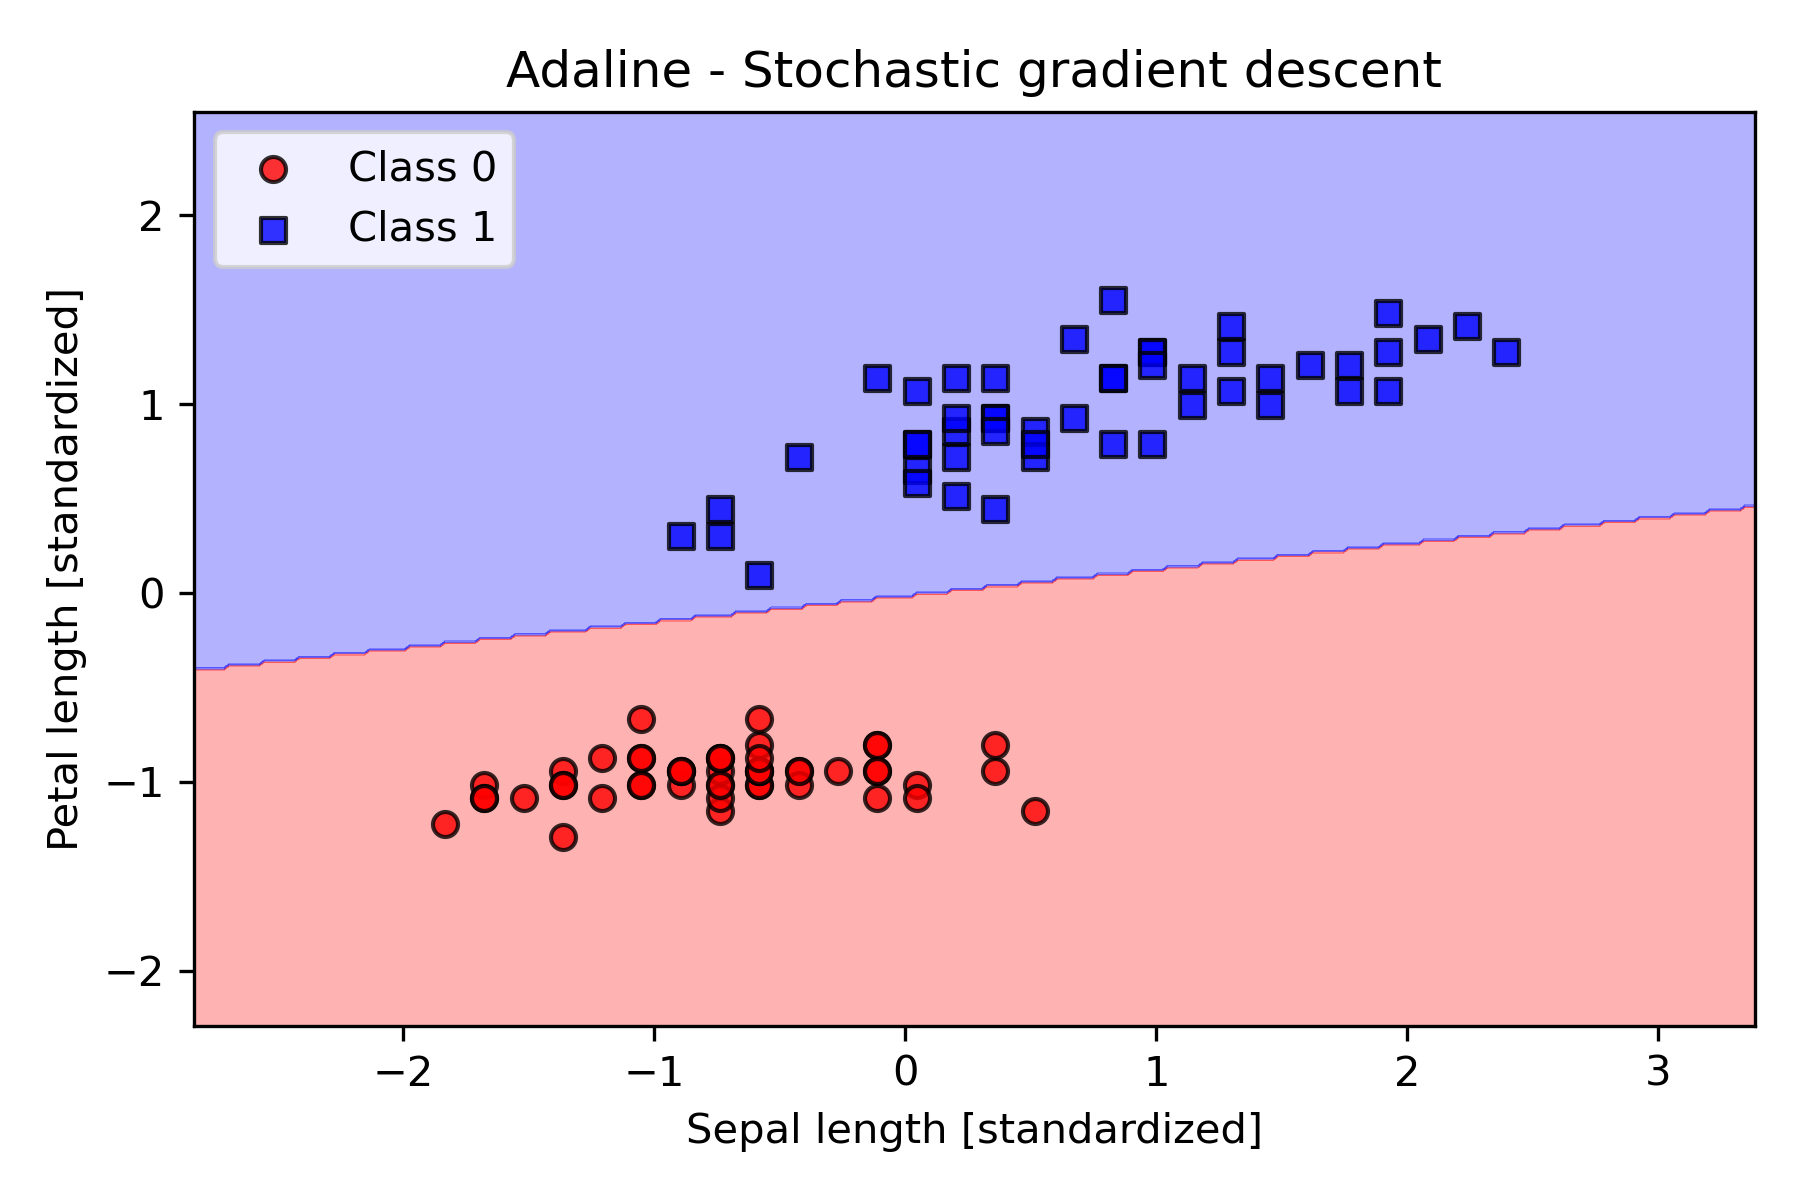
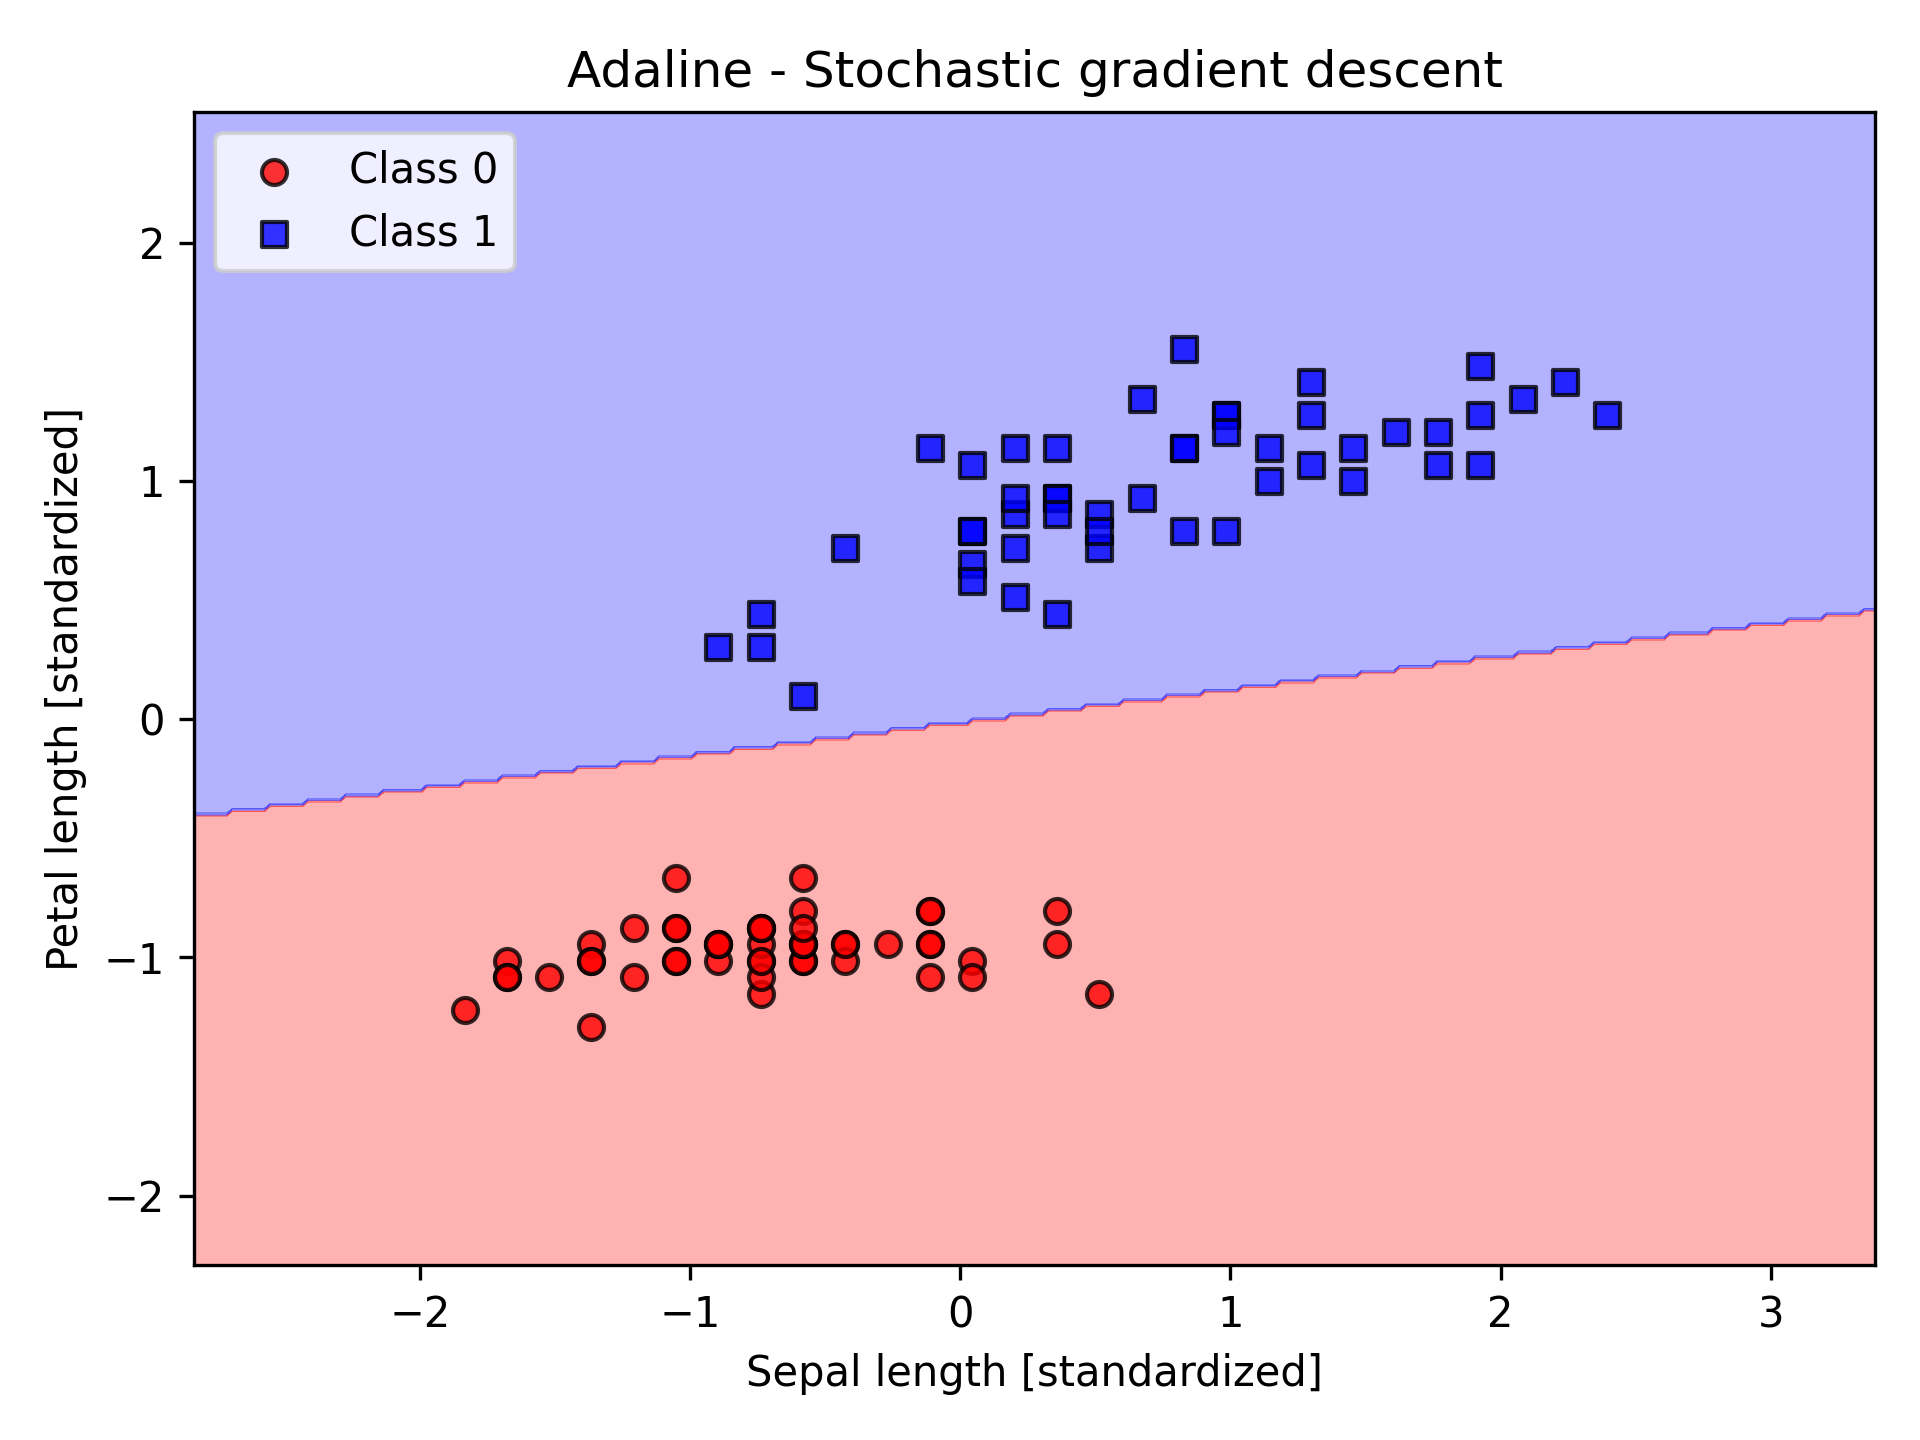
adding chapter 3 stuff before working through examples

diff --git a/ch03/ch03.py b/ch03/ch03.py
@@ -42,7 +42,7 @@ sys.path.insert(0, '..')
 d = {
     'numpy': '1.21.2',
     'matplotlib': '3.4.3',
-    'sklearn': '1.0',
+    'scikit-learn': '1.0',
     'pandas': '1.3.2'
 }
 check_packages(d)
